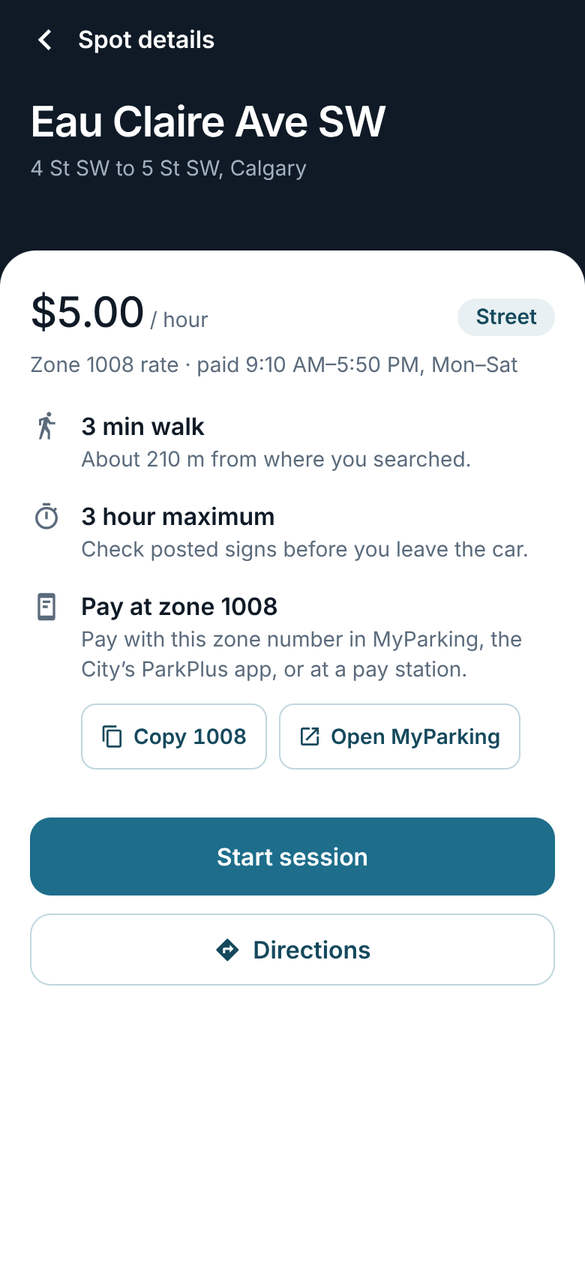
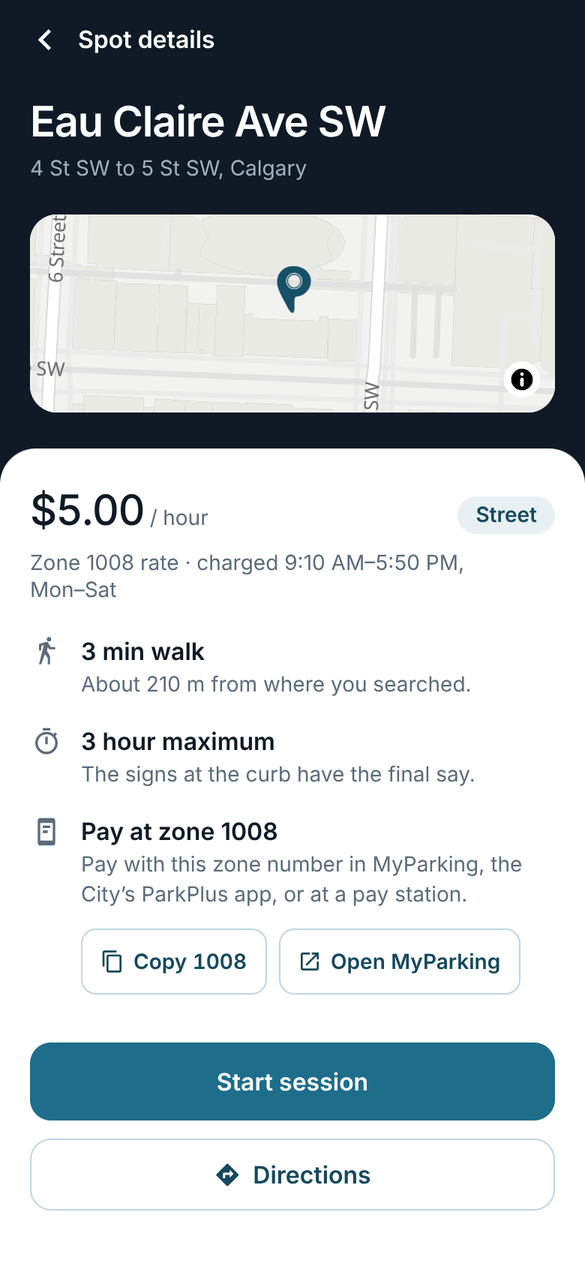
docs: README screens with the real web map and the latest wording
The Map screenshot now shows the MapLibre street map of downtown, Details
its small map, and the session the "Timer only" note under Add. Alt text
says what each screen now shows.

Claude-Session: https://claude.ai/code/session_01BAqhrSuRcLcLiCVgthGree

diff --git a/README.md b/README.md
@@ -39,11 +39,11 @@ needs one setting to reach it (`EXPO_PUBLIC_API_URL`).
 
 | Welcome | Home | Map |
 | --- | --- | --- |
-| <img src="docs/screens/01-welcome.png" width="240" alt="Welcome screen with the ParkAid pin and an Explore parking button"> | <img src="docs/screens/02-home.png" width="240" alt="Home with a greeting, search, sort chips and a suggested spot"> | <img src="docs/screens/03-map.png" width="240" alt="Map with priced, lot and permit pins and a selected spot in the bottom sheet"> |
+| <img src="docs/screens/01-welcome.png" width="240" alt="Welcome screen with the ParkAid pin and an Explore parking button"> | <img src="docs/screens/02-home.png" width="240" alt="Home with a greeting, search, sort chips and a suggested spot"> | <img src="docs/screens/03-map.png" width="240" alt="Street map of downtown Calgary with priced, lot and permit pins and a selected spot in the bottom sheet"> |
 
 | Details | Park | Session |
 | --- | --- | --- |
-| <img src="docs/screens/04-details.png" width="240" alt="Details for a street block: rate, zone, walk and maximum stay"> | <img src="docs/screens/05-park-setup.png" width="240" alt="Session setup with plate, duration, end time, cost and where to pay"> | <img src="docs/screens/06-session.png" width="240" alt="Running session with time left, where to pay in ParkPlus and an Add 30 min button"> |
+| <img src="docs/screens/04-details.png" width="240" alt="Details for a street block: a small map, the rate and when it is charged, the walk, the maximum stay and the zone"> | <img src="docs/screens/05-park-setup.png" width="240" alt="Session setup with plate, duration, end time, cost and where to pay"> | <img src="docs/screens/06-session.png" width="240" alt="Running session with time left, where to pay in ParkPlus and an Add 30 min button that says it only changes the timer"> |
 
 Captured from the web build with sample data. On web the map is MapLibre with
 OpenStreetMap tiles from OpenFreeMap; iOS and Android use Google Maps.
